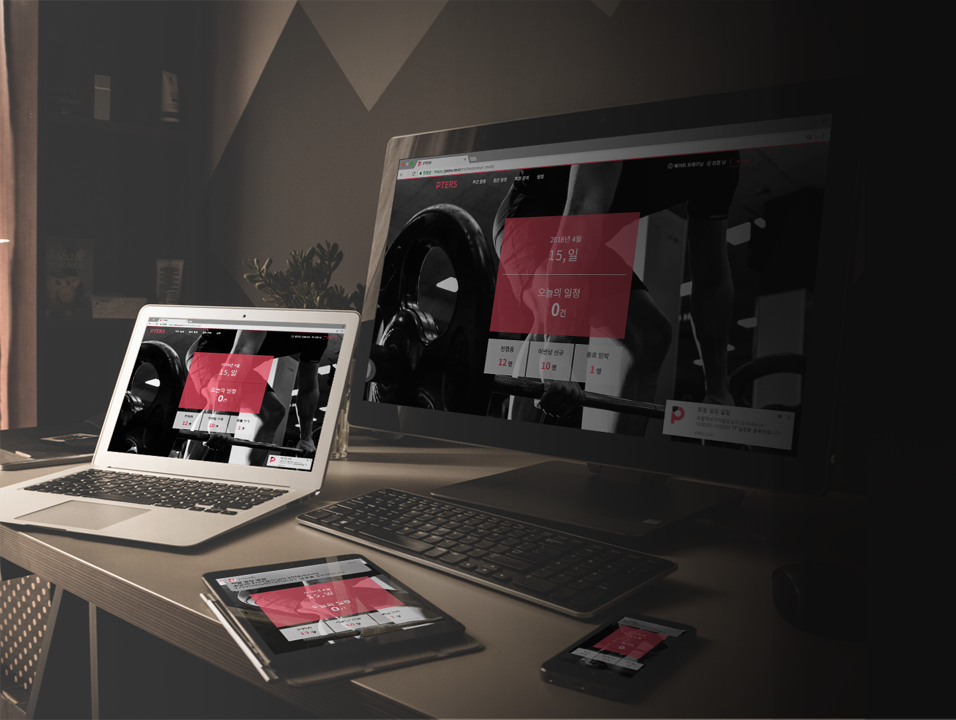
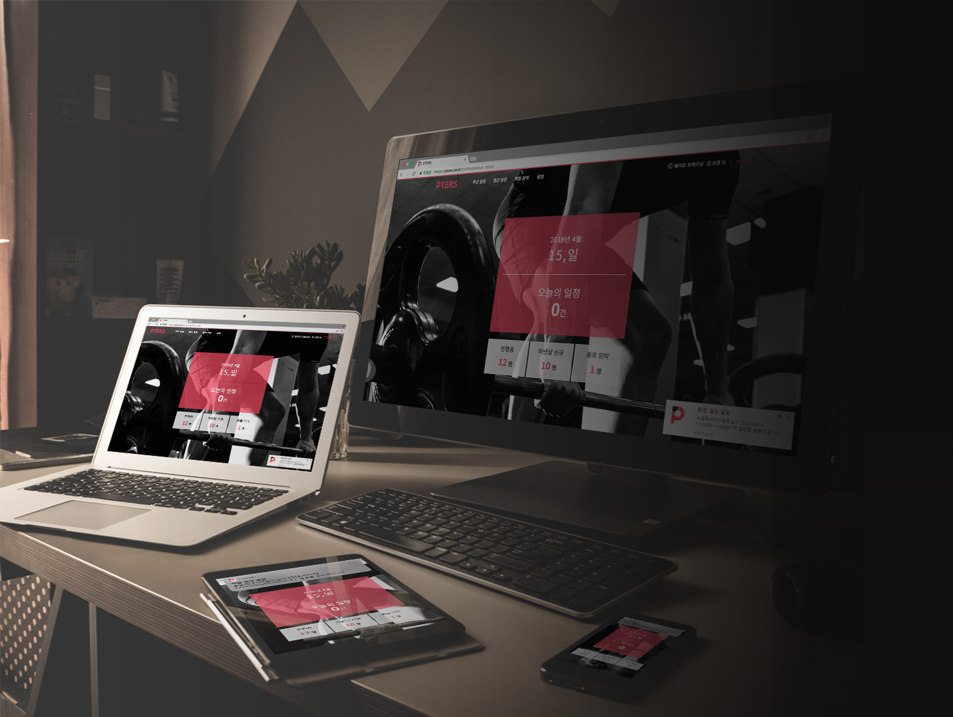
[수정][설정][설정 상단 ymdText에 가림] PTERS-491

diff --git a/pters_project/login/templates/service_info.html b/pters_project/login/templates/service_info.html
@@ -247,10 +247,10 @@
                 
                 <div class="explain_main __teacher">
                     <h2></h2>
-                    <h1>자유로운 나만의 정책 만들기</h1>
+                    <h1>자유로운 레슨 규칙 만들기</h1>
                     <br>
                     <p>피터스의 다양한 설정 옵션으로</p>
-                    <p>여러분만의 정책을 만들고 관리 해보세요.</p>
+                    <p>여러분만의 규칙을 만들고 관리 해보세요.</p>
                     <br>
                     <p>업무시간, 예약가능 기간, 근접 예약/취소 금지, 푸시등 <span class="pink_strong"></span></p>
                     <br>

diff --git a/pters_project/static/user/css/trainer/pters.trainer.reserve.setting.css b/pters_project/static/user/css/trainer/pters.trainer.reserve.setting.css
@@ -13,6 +13,9 @@ body{
 #ymdText{
 	z-index: 30;
 }
+#ymdText_gap{
+	height: 50px;
+}
 #menuName{
 
 }
@@ -268,7 +271,7 @@ li a{
 }
 
 #trainerPushSettingText{
-	margin-top: 70px;
+	margin-top: 20px;
 }
 
 #trainerAutoCompleteSettingText{
@@ -401,8 +404,11 @@ li a{
 	#menuDescription{
 	    line-height: unset;
 	}
+	#ymdText_gap{
+		height: 120px;
+	}
 	#trainerPushSettingText{
-		margin-top: 120px;
+		margin-top: 20px;
 	}
 	#trainerWorkTimeSettingText, #memberReserveBasicHourSettingText, #memberLessonNoticeSettingText, #memberlessonChangeAlarmSettingText{
 		margin-top: 20px;

diff --git a/pters_project/trainer/templates/setting_push.html b/pters_project/trainer/templates/setting_push.html
@@ -37,6 +37,11 @@
             </div>
         </div>
     </div>
+
+    <div id="ymdText_gap">
+        
+    </div>
+
 <!--
     <div id="memberLessonNoticeSettingText" class="settingMenu wrap800">
         <p class="settingText">[회원에게] 당일 레슨일정 확인 알림</p>

diff --git a/pters_project/trainer/templates/setting_reserve.html b/pters_project/trainer/templates/setting_reserve.html
@@ -66,6 +66,9 @@
             </div>
         </div>
     </div>
+    <div id="ymdText_gap">
+        
+    </div>
 
 
     <button id="mobile_preview_btn" class="_button_Preview" style="display: none;">미리보기</button>

diff --git a/pters_project/trainer/templates/setting_basic.html b/pters_project/trainer/templates/setting_basic.html
@@ -72,6 +72,9 @@
         </div>
     </div>
 
+    <div id="ymdText_gap">
+        
+    </div>
 
     <button id="mobile_preview_btn" class="_button_Preview" style="display: none;">미리보기</button>
 
